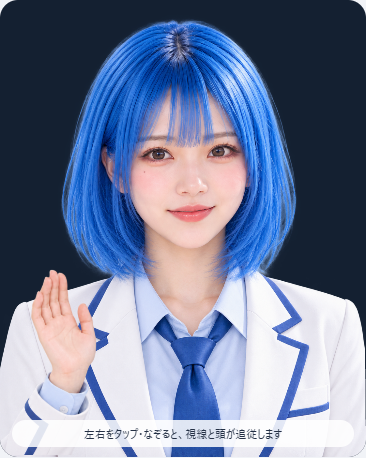
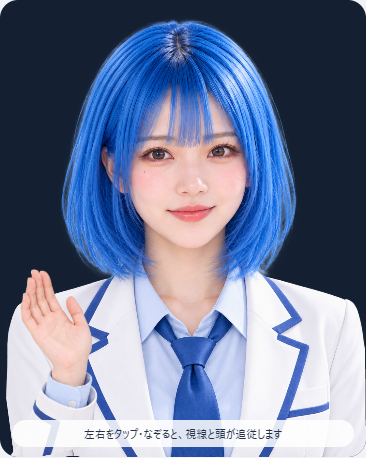
Refine greeting joint path from Natori pose study

Changed region(s): [[0.0, 0.5808, 0.2705, 1.0], [0.1803, 0.9782, 0.2104, 1.0]]

diff --git a/studies/continuity/index.html b/studies/continuity/index.html
@@ -1,3 +1,3 @@
 <!doctype html><html lang="ja"><meta charset="utf-8"><meta name="viewport" content="width=device-width,initial-scale=1"><link rel="icon" href="data:,"><title>響V3 接続品質の比較試作</title>
 <style>*{box-sizing:border-box}body{margin:0;background:#f1f3f7;color:#243045;font:15px system-ui}main{max-width:1080px;margin:auto;padding:20px}h1{font-size:22px;margin:0 0 8px}p{line-height:1.7}header p{margin:0;color:#536176}.layout{display:grid;grid-template-columns:minmax(0,1fr) 300px;gap:20px;margin-top:20px}#stage{position:relative;aspect-ratio:1122/1402;max-height:82vh;background:linear-gradient(#eaf1f8,#fff);border-radius:18px;overflow:hidden;touch-action:pan-y}#stage.dark{background:#142031}canvas{display:block;width:100%;height:100%;object-fit:contain}aside{background:white;padding:18px;border-radius:16px;align-self:start}button,a.download{display:inline-block;padding:11px 14px;border:1px solid #c7d3e3;background:white;color:#183454;border-radius:9px;margin:3px;cursor:pointer;text-decoration:none}button.primary{background:#244f9e;color:#fff;border-color:#244f9e}button[aria-pressed=true]{outline:2px solid #568ad3}label{display:block;margin:15px 0}label:has(input[type=checkbox]){margin:12px 0}input[type=range]{width:100%}small,#status{display:block;line-height:1.6;color:#536176}.hint{position:absolute;bottom:10px;left:12px;right:12px;text-align:center;background:#ffffffd9;border-radius:20px;font-size:12px;padding:6px;pointer-events:none}.buttons{display:flex;flex-wrap:wrap}details{margin-top:14px}a{color:#244f9e}@media(max-width:700px){main{padding:12px}.layout{grid-template-columns:1fr;gap:12px}#stage{max-height:none;width:min(100%,480px);margin:auto}aside{padding:14px}h1{font-size:20px}.hint{font-size:11px}}@media(prefers-reduced-motion:reduce){*{scroll-behavior:auto}}</style>
-<main><header><h1>響V3 · 接続品質の比較試作</h1><p>顔・首・スーツをつなぐ連続メッシュ。胸・肩の呼吸と、頭に少し遅れる上半身の追従を確認できます。</p></header><div class="layout"><section id="stage"><div class="hint">左右をタップ・なぞると、視線と頭が追従します</div></section><aside><div class="buttons"><button class="primary" id="greet">右手で挨拶</button><button class="primary" id="demo" aria-pressed="false">オートデモ</button><button id="reset">正面へ戻す</button><button id="blink">瞬き</button></div><p id="greetingStatus" role="status">右手（画面左側）だけの挨拶 · 約6秒</p><p id="demoStatus" role="status">感情・発話・身体を組み合わせて再生</p><label>V2状態 <select id="state"><option value="idle">idle · 待機</option><option value="attention">attention · 注目</option><option value="thinking">thinking · 思考</option><option value="speaking">speaking · 発話</option><option value="happy">happy · 喜び</option><option value="notify">notify · 通知</option><option value="concern">concern · 心配</option><option value="error">error · エラー</option><option value="sleep">sleep · 休息</option><option value="wake">wake · 復帰</option></select></label><small id="phase">idle / normal</small><label>感情（状態と独立） <select id="emotion"><option value="auto">状態に合わせる</option><option value="neutral">中立</option><option value="gentle">微笑み</option><option value="smile">笑顔</option><option value="joy">喜び</option><option value="surprise">驚き</option><option value="concern">困惑</option><option value="sadness">悲しみ</option><option value="thinking">思考</option><option value="shy">照れ</option></select></label><label>頭の左右への追従 <input id="yaw" type="range" min="-1" max="1" step="0.01" value="0"></label><label>頭の上下への追従 <input id="pitch" type="range" min="-1" max="1" step="0.01" value="0"></label><label>微笑み <input id="smile" type="range" min="0" max="1" step="0.01" value="0"></label><label>口の開閉 <input id="mouth" type="range" min="0" max="1" step="0.01" value="0"></label><label><input id="idle" type="checkbox" checked> 呼吸と微細な待機動作</label><label><input id="static" type="checkbox"> 静止表示</label><label><input id="dark" type="checkbox"> 暗い背景で境界を見る</label><label><input id="wire" type="checkbox"> メッシュを表示</label><label>接合部を拡大 <select id="zoom"><option value="full">全体</option><option value="neck">顔・首・髪</option><option value="face">眼・口</option><option value="body">襟・肩・スーツ</option></select></label><p id="status">素材を読み込み中…</p><small>正面寄りの小さな動きを対象とします。大きな横顔・衣装交換の完成版ではありません。</small><details><summary>音量同期（端末内で処理）</summary><button id="chooseAudio">音声ファイル</button><input id="audioFile" type="file" accept="audio/*" hidden><button id="tone">テスト音量</button><button id="stopAudio">音声を停止</button><small id="audioStatus">音声なし · 発話状態では疑似口パク</small><small>ファイルはアップロードしません。マイクは使用しません。</small></details><details><summary>素材と比較</summary><p><a href="../../legacy.html" target="_blank">従来版を別タブで見る</a></p><p><a class="download" href="materials/hibiki-continuity.psd">レイヤーPSD</a><a class="download" href="materials/neutral-composite.png">素材の合成PNG</a><a class="download" href="materials/oral-tissues.psd">口内・歯・舌のPSD</a></p></details></aside></div></main><script type="module">import('./app.js?v=eyecompose-20261023').catch(error=>{const stage=document.querySelector('#stage');stage.querySelector('canvas')?.remove();const img=new Image();img.src='../../assets/approved-front.png';img.alt='承認済みの響・静止表示';img.style.width='100%';stage.prepend(img);document.querySelector('#status').textContent='動作を開始できないため静止表示しています。 '+error.message;document.querySelectorAll('button,input,select').forEach(e=>e.disabled=true);window.studyError=error.message;});</script></html>
+<main><header><h1>響V3 · 接続品質の比較試作</h1><p>顔・首・スーツをつなぐ連続メッシュ。胸・肩の呼吸と、頭に少し遅れる上半身の追従を確認できます。</p></header><div class="layout"><section id="stage"><div class="hint">左右をタップ・なぞると、視線と頭が追従します</div></section><aside><div class="buttons"><button class="primary" id="greet">右手で挨拶</button><button class="primary" id="demo" aria-pressed="false">オートデモ</button><button id="reset">正面へ戻す</button><button id="blink">瞬き</button></div><p id="greetingStatus" role="status">右手（画面左側）だけの挨拶 · 約6秒</p><p id="demoStatus" role="status">感情・発話・身体を組み合わせて再生</p><label>V2状態 <select id="state"><option value="idle">idle · 待機</option><option value="attention">attention · 注目</option><option value="thinking">thinking · 思考</option><option value="speaking">speaking · 発話</option><option value="happy">happy · 喜び</option><option value="notify">notify · 通知</option><option value="concern">concern · 心配</option><option value="error">error · エラー</option><option value="sleep">sleep · 休息</option><option value="wake">wake · 復帰</option></select></label><small id="phase">idle / normal</small><label>感情（状態と独立） <select id="emotion"><option value="auto">状態に合わせる</option><option value="neutral">中立</option><option value="gentle">微笑み</option><option value="smile">笑顔</option><option value="joy">喜び</option><option value="surprise">驚き</option><option value="concern">困惑</option><option value="sadness">悲しみ</option><option value="thinking">思考</option><option value="shy">照れ</option></select></label><label>頭の左右への追従 <input id="yaw" type="range" min="-1" max="1" step="0.01" value="0"></label><label>頭の上下への追従 <input id="pitch" type="range" min="-1" max="1" step="0.01" value="0"></label><label>微笑み <input id="smile" type="range" min="0" max="1" step="0.01" value="0"></label><label>口の開閉 <input id="mouth" type="range" min="0" max="1" step="0.01" value="0"></label><label><input id="idle" type="checkbox" checked> 呼吸と微細な待機動作</label><label><input id="static" type="checkbox"> 静止表示</label><label><input id="dark" type="checkbox"> 暗い背景で境界を見る</label><label><input id="wire" type="checkbox"> メッシュを表示</label><label>接合部を拡大 <select id="zoom"><option value="full">全体</option><option value="neck">顔・首・髪</option><option value="face">眼・口</option><option value="body">襟・肩・スーツ</option></select></label><p id="status">素材を読み込み中…</p><small>正面寄りの小さな動きを対象とします。大きな横顔・衣装交換の完成版ではありません。</small><details><summary>音量同期（端末内で処理）</summary><button id="chooseAudio">音声ファイル</button><input id="audioFile" type="file" accept="audio/*" hidden><button id="tone">テスト音量</button><button id="stopAudio">音声を停止</button><small id="audioStatus">音声なし · 発話状態では疑似口パク</small><small>ファイルはアップロードしません。マイクは使用しません。</small></details><details><summary>素材と比較</summary><p><a href="../../legacy.html" target="_blank">従来版を別タブで見る</a></p><p><a class="download" href="materials/hibiki-continuity.psd">レイヤーPSD</a><a class="download" href="materials/neutral-composite.png">素材の合成PNG</a><a class="download" href="materials/oral-tissues.psd">口内・歯・舌のPSD</a></p></details></aside></div></main><script type="module">import('./app.js?v=natoriarm-20261023').catch(error=>{const stage=document.querySelector('#stage');stage.querySelector('canvas')?.remove();const img=new Image();img.src='../../assets/approved-front.png';img.alt='承認済みの響・静止表示';img.style.width='100%';stage.prepend(img);document.querySelector('#status').textContent='動作を開始できないため静止表示しています。 '+error.message;document.querySelectorAll('button,input,select').forEach(e=>e.disabled=true);window.studyError=error.message;});</script></html>

diff --git a/studies/continuity/app.js b/studies/continuity/app.js
@@ -1,21 +1,21 @@
-import {presencePose,blinkInterval} from './presence.js?v=eyecompose-20261023';
-import {affectPose,blinkContext} from './affect.js?v=eyecompose-20261023';
-import {BUST_HIERARCHY,composeBustIntent,BustDynamics} from './bust-rig.js?v=eyecompose-20261023';
+import {presencePose,blinkInterval} from './presence.js?v=natoriarm-20261023';
+import {affectPose,blinkContext} from './affect.js?v=natoriarm-20261023';
+import {BUST_HIERARCHY,composeBustIntent,BustDynamics} from './bust-rig.js?v=natoriarm-20261023';
 import {Application,Container,MeshSimple,Texture,Graphics} from './vendor/pixi.min.mjs';
 import {authorMaterials,readMaterials,exportPSD,eyes,WIDTH,HEIGHT} from './materials.js';
-import {buildSurface,bakeKeys,readRig,deformSurface,skin,aperture,boneRig,clamp,smooth} from './rig.js?v=eyecompose-20261023';
-import {PerformanceController,STATES,emotionDemo} from './emotion.js?v=eyecompose-20261023';
+import {buildSurface,bakeKeys,readRig,deformSurface,skin,aperture,boneRig,clamp,smooth} from './rig.js?v=natoriarm-20261023';
+import {PerformanceController,STATES,emotionDemo} from './emotion.js?v=natoriarm-20261023';
 import {AudioDriver} from '../../engine.js?v=cage-4a';
-import {authorOralMaterials,readOralMaterials,oralStrip,oralVertices} from './mouth.js?v=eyecompose-20261023';
-import {MotionResponse,composeEyeClosure,crossedBlinkContact} from './motion-response.js?v=eyecompose-20261023';
-import {makeSmileMaterial} from './smile-material.js?v=eyecompose-20261023';
+import {authorOralMaterials,readOralMaterials,oralStrip,oralVertices} from './mouth.js?v=natoriarm-20261023';
+import {MotionResponse,composeEyeClosure,crossedBlinkContact} from './motion-response.js?v=natoriarm-20261023';
+import {makeSmileMaterial} from './smile-material.js?v=natoriarm-20261023';
 const $=s=>document.querySelector(s),stage=$('#stage');
 const app=new Application();
 await app.init({width:WIDTH,height:HEIGHT,resolution:Math.min(devicePixelRatio||1,1.5),autoDensity:true,antialias:true,backgroundAlpha:0,preference:'webgl',preserveDrawingBuffer:true,autoStart:false});
 app.canvas.style.width='100%';app.canvas.style.height='100%';
 stage.prepend(app.canvas);app.canvas.setAttribute('aria-label','響V3 連続メッシュの比較試作');
 const world=new Container();app.stage.addChild(world);
-const author=new URLSearchParams(location.search).has('author'),materials=await (author?authorMaterials():readMaterials()),surface=author?buildSurface():readRig(await fetch('materials/rig.json?v=eyecompose-20261023').then(r=>{if(!r.ok)throw Error('形状素材の読込に失敗しました');return r.json();}));
+const author=new URLSearchParams(location.search).has('author'),materials=await (author?authorMaterials():readMaterials()),surface=author?buildSurface():readRig(await fetch('materials/rig.json?v=natoriarm-20261023').then(r=>{if(!r.ok)throw Error('形状素材の読込に失敗しました');return r.json();}));
 if(author)await import('./vendor/bundle.js');
 if(author)bakeKeys(surface);
 function makeMesh(texture,rest,uvs,indices,crop){
@@ -39,7 +39,7 @@ const wire=new Graphics();world.addChild(wire);
 let greeting=null,greetingLoad=null,greetingError=null,greetingLoading=false,greetingRequest=0,gestureClock=0;
 async function loadGreeting(){
  if(greeting)return greeting;
- if(!greetingLoad)greetingLoad=(async()=>{const {RightGreeting}=await import('./greeting.js?v=eyecompose-20261023');const image=new Image();image.src='materials/right-greeting.png';await image.decode();return greeting=new RightGreeting({MeshSimple,Texture,world,image});})().catch(error=>{greetingLoad=null;throw error;});
+ if(!greetingLoad)greetingLoad=(async()=>{const {RightGreeting}=await import('./greeting.js?v=natoriarm-20261023');const image=new Image();image.src='materials/right-greeting.png';await image.decode();return greeting=new RightGreeting({MeshSimple,Texture,world,image});})().catch(error=>{greetingLoad=null;throw error;});
  return greetingLoad;
 }
 async function startGreeting(){
@@ -144,5 +144,5 @@ window.study={ready:true,materials,exportRig:()=>bakeKeys(surface),exportPSD:()=
  pose(p={}){fixed=true;current={...initial,...p};draw(current);return {...current};},
  animate(){fixed=false;last=performance.now();},
  demo(t){return this.pose({...sample(t),eye0:1-blink((t%4)-3),eye1:1-blink((t%4)-3)});},
- stats(){return {rigVersion:'eyecompose-20261023',hierarchy:BUST_HIERARCHY,renderer:app.renderer.name,materialSource:author?'local authoring canvases':'saved PNG layers',materialTextureBytes:[main,cavity,...oralParts.map(r=>r.mesh),cheekMesh,...irises.map(r=>r.mesh),...closedCorrectives].reduce((n,m)=>n+m.texture.width*m.texture.height*4,0)+smileMaterial.textureBytes+(greeting?.stats().textureBytes||0),vertices:surface.rest.length/2,triangles:surface.indices.length/3,drawCount,pose:{...rendered},performance:controller.snapshot(),gesture:greeting?.stats()||{active:false,loaded:false,error:greetingError},static:$('#static').checked};}
+ stats(){return {rigVersion:'natoriarm-20261023',hierarchy:BUST_HIERARCHY,renderer:app.renderer.name,materialSource:author?'local authoring canvases':'saved PNG layers',materialTextureBytes:[main,cavity,...oralParts.map(r=>r.mesh),cheekMesh,...irises.map(r=>r.mesh),...closedCorrectives].reduce((n,m)=>n+m.texture.width*m.texture.height*4,0)+smileMaterial.textureBytes+(greeting?.stats().textureBytes||0),vertices:surface.rest.length/2,triangles:surface.indices.length/3,drawCount,pose:{...rendered},performance:controller.snapshot(),gesture:greeting?.stats()||{active:false,loaded:false,error:greetingError},static:$('#static').checked};}
 };draw(resting);requestAnimationFrame(frame);

diff --git a/studies/continuity/arm-rig.js b/studies/continuity/arm-rig.js
@@ -1,21 +1,18 @@
 // Shoulder -> upper arm -> elbow -> forearm -> wrist. Character right, screen left.
-import {BUST_HIERARCHY} from './bust-rig.js?v=eyecompose-20261023';
+import {BUST_HIERARCHY} from './bust-rig.js?v=natoriarm-20261023';
 const clamp=v=>Math.max(0,Math.min(1,v));
 export const ARM={shoulder:BUST_HIERARCHY.shoulderRight.pivot,upper:460,forearm:Math.hypot(165,300)*.9,sourceWrist:[285,1160],sourceElbow:[120,1460],scale:.9};
 export function armChain(lift=0,upperLift=lift){
  const g=clamp(lift),[sx,sy]=ARM.shoulder;
- // A wrist path is authored in the character frame, then solved shoulder -> elbow.
- // This preserves both bone lengths; it is not a rotated / vertically scaled hand.
- const restElbow=[sx+Math.cos(1.75)*ARM.upper,sy+Math.sin(1.75)*ARM.upper];
- const rest=[restElbow[0]+Math.cos(1.36)*ARM.forearm,restElbow[1]+Math.sin(1.36)*ARM.forearm];
- const u=1-g,point=[u*u*u*rest[0]+3*u*u*g*160+3*u*g*g*155+g*g*g*220,u*u*u*rest[1]+3*u*u*g*1660+3*u*g*g*1250+g*g*g*1165];
- point[1]-=5*Math.sin(Math.PI*clamp(upperLift));
- const dx=point[0]-sx,dy=point[1]-sy,d=Math.max(Math.abs(ARM.upper-ARM.forearm)+.01,Math.min(ARM.upper+ARM.forearm-.01,Math.hypot(dx,dy)));
- const desired=Math.atan2(dy,dx)+Math.acos(Math.max(-1,Math.min(1,(d*d+ARM.upper**2-ARM.forearm**2)/(2*d*ARM.upper))));
- // Soft anatomical/artwork limit: avoid folding a frontal jacket into an absent side view.
- const upperAngle=1.75+.28*Math.tanh((desired-1.75)/.28);
+ // Independent authored joint poses, not IK followed by a conflicting shoulder clamp.
+ // The latter sent the elbow outside the portrait and back during one raise.
+ // These angles belong to Hibiki's artwork; no sample-model geometry is reused.
+ const u=clamp(upperLift),upperAngle=1.75-.125*u+.055*Math.sin(Math.PI*u);
  const elbow=[sx+Math.cos(upperAngle)*ARM.upper,sy+Math.sin(upperAngle)*ARM.upper];
- const forearmAngle=Math.atan2(point[1]-elbow[1],point[0]-elbow[0]);
+ // Unwrapped angle chooses the outside arc: enter from screen left, then settle
+ // beside the chest. It avoids sweeping the palm backwards across the tie.
+ const forearmProgress=1-(1-g)*(1-g);
+ const forearmAngle=1.36+(Math.PI*2-1.2589-1.36)*forearmProgress;
  const wrist=[elbow[0]+Math.cos(forearmAngle)*ARM.forearm,elbow[1]+Math.sin(forearmAngle)*ARM.forearm];
  return {shoulder:[sx,sy],elbow,wrist,upperAngle,forearmAngle};
 }

diff --git a/studies/continuity/smile-material.js b/studies/continuity/smile-material.js
@@ -1,4 +1,4 @@
-import {createSkin,clamp,smooth} from './rig.js?v=eyecompose-20261023';
+import {createSkin,clamp,smooth} from './rig.js?v=natoriarm-20261023';
 // Landmarks traced on the registered smile material, not an equal-tooth template.
 const upper=[[514,638],[530,640],[550,642],[575,642],[594,642],[615,640],[638,636],[659,631],[674,627]];
 const lower=[[514,638],[530,648],[550,656],[575,661],[594,662],[615,659],[638,651],[659,639],[674,627]];
@@ -6,7 +6,7 @@ function at(points,x){if(x<=points[0][0])return points[0][1];for(let i=1;i<point
 export const smileBounds=x=>[at(upper,x),at(lower,x)];
 const xs=Array.from({length:53},(_,i)=>490+i*4),bands=[0,1,2,3,4,5];
 export async function makeSmileMaterial({MeshSimple,Texture,Graphics,world}){
- const image=new Image();image.src='materials/smile-local.png?v=eyecompose-20261023';await image.decode();
+ const image=new Image();image.src='materials/smile-local.png?v=natoriarm-20261023';await image.decode();
  const rest=[],uv=[],indices=[];
  for(const band of bands)for(const x of xs){const [a,b]=smileBounds(x),y=[600,615,a,b,689,720][band];rest.push(x,y);uv.push((x-490)/208,(y-600+(band===2?-1.4:band===3?1.4:0))/120);}
  for(let row=0;row<5;row++)for(let j=0;j<52;j++){if(row===2&&xs[j]>=514&&xs[j+1]<=674)continue;const i=row*53+j;indices.push(i,i+53,i+1,i+1,i+53,i+54);}

diff --git a/studies/continuity/mouth.js b/studies/continuity/mouth.js
@@ -1,5 +1,5 @@
 import {seam} from './materials.js';
-import {localShape,createSkin} from './rig.js?v=eyecompose-20261023';
+import {localShape,createSkin} from './rig.js?v=natoriarm-20261023';
 // Original Canvas-authored oral tissues. No second face or mouth photograph.
 export function authorOralMaterials(){
  const canvas=(w,h)=>{const c=document.createElement('canvas');c.width=w;c.height=h;return c;};
@@ -25,7 +25,7 @@ export function authorOralMaterials(){
  return {cavity,teeth,tongue};
 }
 export async function readOralMaterials(){
- const load=async name=>{const i=new Image();i.src='materials/'+name+'.png?v=eyecompose-20261023';await i.decode();return i;};
+ const load=async name=>{const i=new Image();i.src='materials/'+name+'.png?v=natoriarm-20261023';await i.decode();return i;};
  const [cavity,teeth,tongue]=await Promise.all(['oral-cavity','upper-dental','tongue'].map(load));return {cavity,teeth,tongue};
 }
 export function oralStrip(kind){

diff --git a/studies/continuity/greeting.js b/studies/continuity/greeting.js
@@ -1,6 +1,6 @@
-import {track} from './presence.js?v=eyecompose-20261023';
-import {ARM,armChain} from './arm-rig.js?v=eyecompose-20261023';
-import {shoulderFrame} from './bust-rig.js?v=eyecompose-20261023';
+import {track} from './presence.js?v=natoriarm-20261023';
+import {ARM,armChain} from './arm-rig.js?v=natoriarm-20261023';
+import {shoulderFrame} from './bust-rig.js?v=natoriarm-20261023';
 // Character's RIGHT hand = screen left. Forearm/elbow stay separate from the face rig.
 const clamp=v=>Math.max(0,Math.min(1,v));
 const ease=v=>{const t=clamp(v);return t*t*t*(t*(t*6-15)+10);};

diff --git a/studies/continuity/rig.js b/studies/continuity/rig.js
@@ -1,5 +1,5 @@
-import {upperArmSkin} from './arm-rig.js?v=eyecompose-20261023';
-import {BUST_HIERARCHY,chestFrame,thoraxOffset,shoulderFrame} from './bust-rig.js?v=eyecompose-20261023';
+import {upperArmSkin} from './arm-rig.js?v=natoriarm-20261023';
+import {BUST_HIERARCHY,chestFrame,thoraxOffset,shoulderFrame} from './bust-rig.js?v=natoriarm-20261023';
 import {eyes,eyeBounds,seam,WIDTH,HEIGHT} from './materials.js';
 import {expressionWeights} from './shape-constraints.js';
 export const clamp=(v,a=0,b=1)=>Math.max(a,Math.min(b,v));

diff --git a/studies/continuity/emotion.js b/studies/continuity/emotion.js
@@ -1,4 +1,4 @@
-import {speechShape} from './presence.js?v=eyecompose-20261023';
+import {speechShape} from './presence.js?v=natoriarm-20261023';
 // V2 input translation is separate from V3 expression, speech and secondary motion.
 export const STATES = ['idle','attention','thinking','speaking','happy','notify','concern','error','sleep','wake'];
 export const EMOTIONS = {

diff --git a/studies/continuity/affect.js b/studies/continuity/affect.js
@@ -1,4 +1,4 @@
-import {track} from './presence.js?v=eyecompose-20261023';
+import {track} from './presence.js?v=natoriarm-20261023';
 // Hibiki-authored intentions, evaluated before joint response and secondary physics.
 // No Cubism model values, geometry or implementation are used.
 const posture={

diff --git a/studies/continuity/README.md b/studies/continuity/README.md
@@ -258,3 +258,13 @@ node studies/continuity/verify.mjs
 **残る制約**：正面からの小さな頭部追従・傾きが対象で、大きな横顔の造形は未制作。閉眼補正の中間材質、歯や口内の立体感、写真の陰影の自然さは人間の目視評価が必要。首・髪・衣装をつながる表面にしたため、独立した大きな髪束や衣装交換には、今回の共有境界を守る素材・対応形状の追加制作が必要です。今回の素材はスーツ固定です。
 
 従来公開版も保持しています。2026-10-22の追加で音量同期・V2状態入力はこのページへ対応しましたが、Twinow本体や利用先別衣装設定への接続は行っていません。Live2D同等品質・Identityの人間承認・V3完成とは判断しません。
+
+## Natoriからの腕動作の応用（2026-10-23）
+
+公式Editor外部APIで名執尽 PROの96パラメータと登録キー位置、公式SDKで176描画要素・32パーツを確認。右腕A／B／Eは別の姿勢群で、pose設定の0.2秒切替は途中に両方の腕を重ねます。これは肘が連続的に曲がるアニメーションとは区別します。SDKでBの肘4姿勢と切替途中を実描画比較しました。REAの公開CubismPose解析記録は再利用し、モデルの非公開形状やEditorのデフォーマ階層を抽出したとは扱いません。
+
+響への反映は、関節別に姿勢を設計する考え方です。旧方式の「手首目標をIKで解く→上腕角だけ制限」では、肘が画面外へ大きく移動して戻り、手が胸を横切ってから逆戻りしていました。響専用の上腕・前腕の独立した姿勢経路へ変更し、画面左から入って胸の横で収まり、同じ経路で戻るようにしています。胸郭・肩の支持、手首の遅れ、共有接合、骨長、常時不透明を維持。Natoriのフェード、形状データ、素材は移植していません。
+
+[中間姿勢](evidence/greeting-phases.png)と[動作検証](evidence/greeting-verification.json)を更新。390px幅のPC Chromeタッチ再現で、挨拶と発話・感情の共存、静止・省動作、素材欠損、読み込み中のリセットを確認。同じ胴体姿勢で顔領域の描画差なし。スマホ実機評価は未実施です。追加テクスチャ・メッシュはなく配信素材容量は不変です。
+
+**残課題**：今回の経路はバストアップ画角用であり、画面外を含む解剖学的な全腕運動を再現するものではありません。Natoriの姿勢別素材から学べる袖・肘の立体的な造形、手の向きに応じた専用素材は未制作。既存の単一手素材による立体感の限界を解消済みとはしません。EditorのArtMeshごとの形状キー、デフォーマ階層、Glueは今回未確認です。
